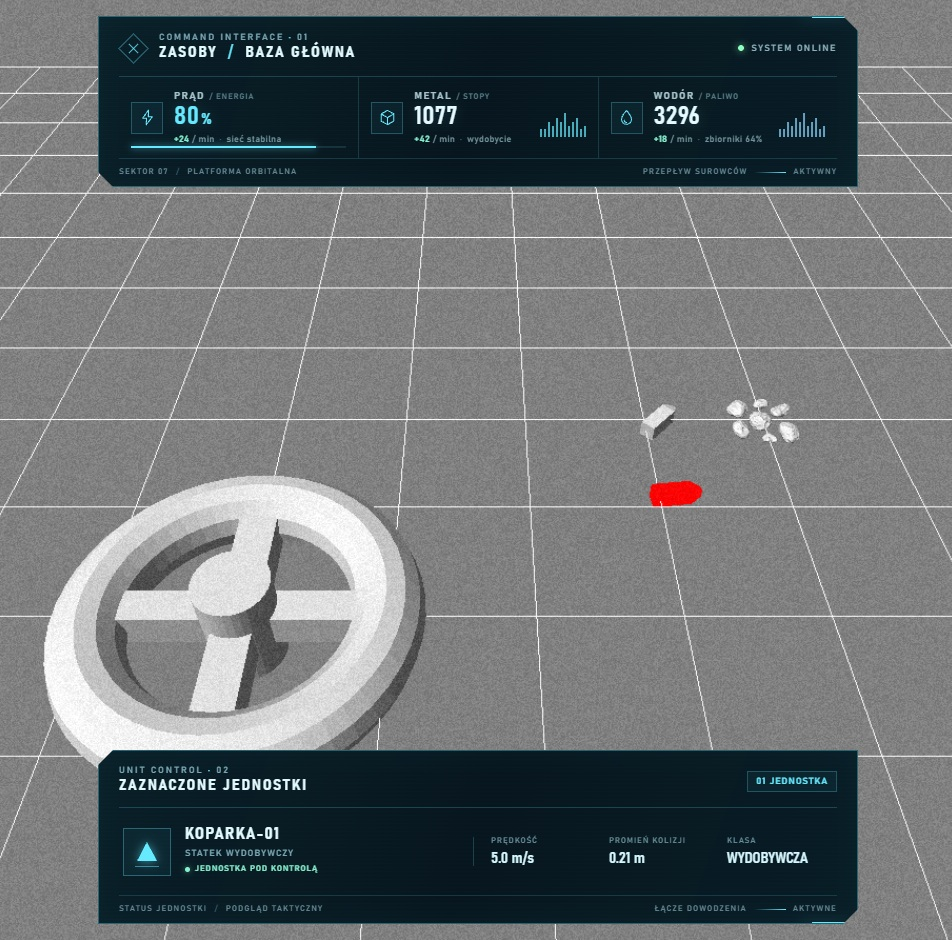
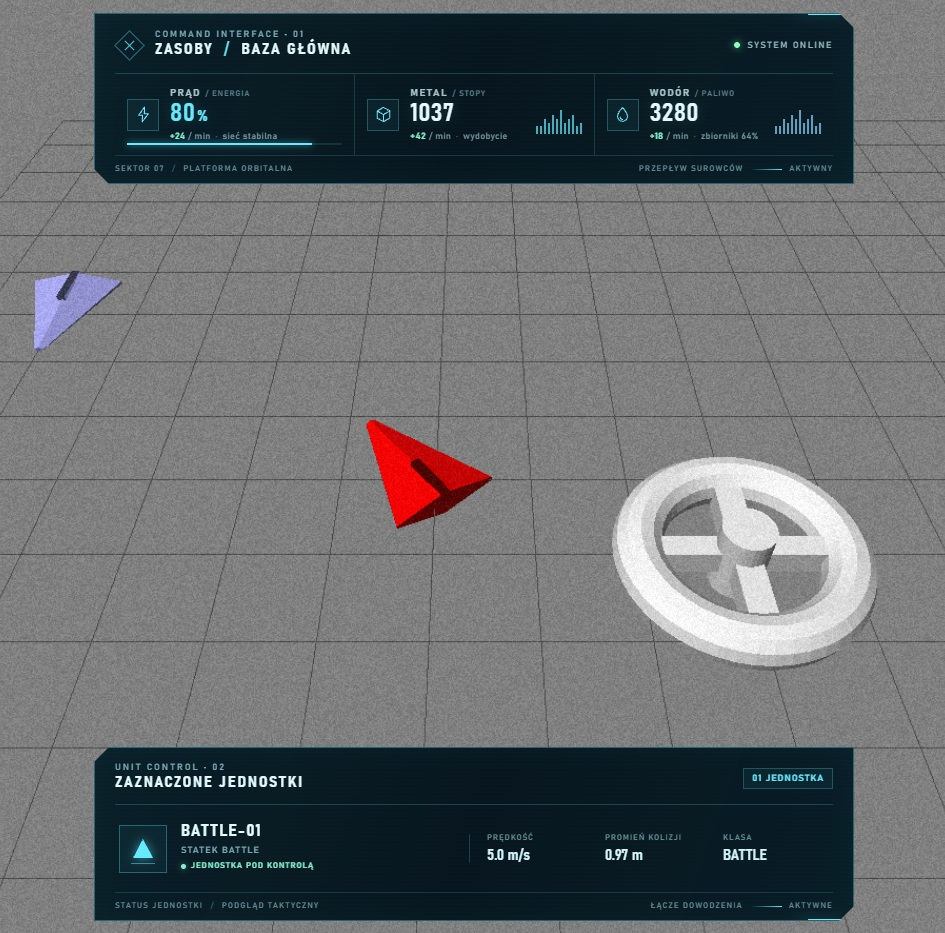
simple BOT with shooting and range view

diff --git a/src/webgl/botAI.js b/src/webgl/botAI.js
@@ -1,8 +1,6 @@
 import BattleModel from './model/game/battleModel.js'
 import MovableModel from './model/game/movableModel.js'
 
-const { mat4 } = glMatrix
-
 export class BotAI {
     constructor(group, entities = []) {
         if (typeof group !== 'string' || group === '' || group === 'player') {
@@ -15,6 +13,7 @@ export class BotAI {
         this.retaliationTarget = null
         this.retaliationUntil = 0
         this.nextShotByShip = new Map()
+        this.targetByShip = new Map()
 
         for (const entity of entities) this.addEntity(entity)
     }
@@ -34,6 +33,7 @@ export class BotAI {
         this.ships = this.ships.filter((ship) => ship !== entity)
         this.buildings = this.buildings.filter((building) => building !== entity)
         this.nextShotByShip.delete(entity)
+        this.targetByShip.delete(entity)
         if (this.retaliationTarget === entity) {
             this.retaliationTarget = null
             this.retaliationUntil = 0
@@ -48,23 +48,53 @@ export class BotAI {
     }
 
     update(time, worldModels) {
-        const target = this.retaliationTarget
-        if (!target || time >= this.retaliationUntil || !worldModels.includes(target)) {
+        if (time >= this.retaliationUntil ||
+            !worldModels.includes(this.retaliationTarget) ||
+            this.retaliationTarget?.group !== 'player' ||
+            this.retaliationTarget?.health <= 0) {
             this.retaliationTarget = null
-            return []
         }
 
+        const playerTargets = worldModels.filter((model) =>
+            model.group === 'player' &&
+            model.damageable !== false &&
+            model.health > 0
+        )
         const shots = []
         for (const ship of this.ships) {
             if (!(ship instanceof BattleModel) || !worldModels.includes(ship)) continue
+
+            const isInSight = (target) => Math.hypot(
+                ship.position[0] - target.position[0],
+                ship.position[2] - target.position[2]
+            ) <= 3
+            let target = this.retaliationTarget &&
+                playerTargets.includes(this.retaliationTarget) &&
+                isInSight(this.retaliationTarget)
+                ? this.retaliationTarget
+                : this.targetByShip.get(ship)
+            if (!target || !playerTargets.includes(target) || !isInSight(target)) {
+                target = playerTargets
+                    .filter(isInSight)
+                    .sort((first, second) =>
+                        Math.hypot(
+                            ship.position[0] - first.position[0],
+                            ship.position[2] - first.position[2]
+                        ) - Math.hypot(
+                            ship.position[0] - second.position[0],
+                            ship.position[2] - second.position[2]
+                        )
+                    )[0]
+            }
+            if (!target) {
+                this.targetByShip.delete(ship)
+                continue
+            }
+
+            this.targetByShip.set(ship, target)
             if (time < (this.nextShotByShip.get(ship) || 0)) continue
 
-            const directionX = target.position[0] - ship.position[0]
-            const directionZ = target.position[2] - ship.position[2]
-            if (Math.hypot(directionX, directionZ) < 1e-8) continue
-
-            ship.rotationY = Math.atan2(directionX, directionZ)
-            mat4.fromYRotation(ship.model, ship.rotationY)
+            ship.faceTarget(target)
             this.nextShotByShip.set(ship, time + 900)
             shots.push({ shooter: ship, target })
         }

diff --git a/src/webgl/engine.js b/src/webgl/engine.js
@@ -43,6 +43,9 @@ class Engine {
         const redMaterial = new DefaultMaterial(gl)
         redMaterial.uniforms.color = [1.0, 0.0, 0.0]
 
+        const botMaterial = new DefaultMaterial(gl)
+        botMaterial.uniforms.color = [0.7, 0.7, 1.0]
+
         const panelModel = await PanelModel.create(gl, [-1.0, -1.0, 1.0, 1.0], 'panel')
         const ground = await Geometry.createGround(gl, 10, 20)
 
@@ -72,11 +75,12 @@ class Engine {
         battleModel.group = 'player'
 
         const botBatttleModel = await BattleModel.create(gl)
-        botBatttleModel.position = [-6, 0, -4]
+        botBatttleModel.position = [-8, 0, -4]
         botBatttleModel.displayName = 'BATTLE-BOT-01'
         botBatttleModel.displayRole = 'STATEK BATTLE'
         botBatttleModel.displayClass = 'BATTLE'
         botBatttleModel.group = 'bot-01'
+        botBatttleModel.material = botMaterial
 
         const resourceModel = await ResourceModel.create(gl)
         resourceModel.position = [4, 0, -2]
@@ -189,6 +193,25 @@ class Engine {
         const weaponCooldowns = new Map()
         const projectiles = []
 
+        function removeModel(model) {
+            const modelIndex = models.indexOf(model)
+            if (modelIndex === -1) return
+
+            models.splice(modelIndex, 1)
+            const selectableIndex = modelsToSelect.indexOf(model)
+            if (selectableIndex !== -1) modelsToSelect.splice(selectableIndex, 1)
+            const constantIndex = constModels.indexOf(model)
+            if (constantIndex !== -1) constModels.splice(constantIndex, 1)
+            const intersectIndex = intersect.models.indexOf(model)
+            if (intersectIndex !== -1) intersect.models.splice(intersectIndex, 1)
+            selection.removeModel(model)
+
+            for (const other of models) {
+                if (other.attackTarget === model) other.setPath([])
+            }
+            for (const botAI of botAIs) botAI.removeEntity(model)
+        }
+
         function spawnProjectile(shooter, target) {
             if (projectiles.length >= 128) return false
 
@@ -243,6 +266,7 @@ class Engine {
                 if (model.pathIndex < model.path.length ||
                     distance > model.attackRange) continue
 
+                model.faceTarget(target)
                 let weapon = weaponCooldowns.get(model)
                 if (!weapon || weapon.target !== target) {
                     weapon = { target, nextShot: 0 }
@@ -274,10 +298,14 @@ class Engine {
                 const distance = Math.hypot(directionX, directionY, directionZ)
                 const step = 12 * deltaTime
 
-                if (distance <= step + Math.max(0.06, target.collisionRadius * 0.2)) {
+                const targetRadius = Number.isFinite(target.collisionRadius)
+                    ? target.collisionRadius
+                    : 0
+                if (distance <= step + Math.max(0.06, targetRadius * 0.2)) {
                     if (target.group !== 'player') {
                         botAIsByGroup.get(target.group)?.onShipHit(projectile.source, time)
                     }
+                    if (target.takeDamage(25)) removeModel(target)
                     projectiles.splice(index, 1)
                     continue
                 }

diff --git a/src/webgl/model/model.js b/src/webgl/model/model.js
@@ -8,8 +8,21 @@ export class Model extends Scene{
         super(gl)
         this.position = vec3.create()
         this._scale = 1
+        this.maxHealth = 100
+        this.health = this.maxHealth
+        this.damageable = true
         this.material = new DefaultMaterial(gl)
         this._defaultMaterial = this.material
+    }
+
+    takeDamage(amount){
+        if (!this.damageable) return false
+        if (!Number.isFinite(amount) || amount <= 0) {
+            throw new RangeError('Damage must be a positive finite number')
+        }
+
+        this.health = Math.max(0, this.health - amount)
+        return this.health === 0
     }
 
     get scale(){

diff --git a/src/webgl/selection.js b/src/webgl/selection.js
@@ -39,6 +39,12 @@ export default function createSelection({
         updateSelectionPanel()
     }
 
+    function removeModel(model) {
+        if (selectedModels.includes(model)) {
+            setSelectedModels(selectedModels.filter((selected) => selected !== model))
+        }
+    }
+
     function updateSelectionPanel() {
         const count = selectedModels.length
         selectionPanel.hidden = count === 0
@@ -290,5 +296,6 @@ export default function createSelection({
         getSelectedModels: () => selectedModels,
         getCanvasPixel,
         getGroundPoint,
+        removeModel,
     }
 }

diff --git a/src/webgl/model/game/movableModel.js b/src/webgl/model/game/movableModel.js
@@ -163,6 +163,15 @@ export class MovableModel extends ModelGLTF{
         this.attackRange = range
     }
 
+    faceTarget(target){
+        const directionX = target.position[0] - this.position[0]
+        const directionZ = target.position[2] - this.position[2]
+        if (Math.hypot(directionX, directionZ) < 1e-8) return
+
+        this.rotationY = Math.atan2(directionX, directionZ)
+        mat4.fromYRotation(this.model, this.rotationY)
+    }
+
     setShuttlePaths(paths, resourceModel, stationIndex){
         this.attackTarget = null
         this.attackRange = 0

diff --git a/src/webgl/model/game/resourceModel.js b/src/webgl/model/game/resourceModel.js
@@ -3,6 +3,9 @@ import ModelGLTF from './../../../webgl/model/modelGLTF.js'
 export class ResourceModel extends ModelGLTF{
     constructor(gl){
         super(gl)
+        this.maxHealth = null
+        this.health = null
+        this.damageable = false
         this.gatherTime = 3000
         this.stations = Array.from({ length: 8 }, (_, index) => {
             const angle = index * Math.PI / 4
